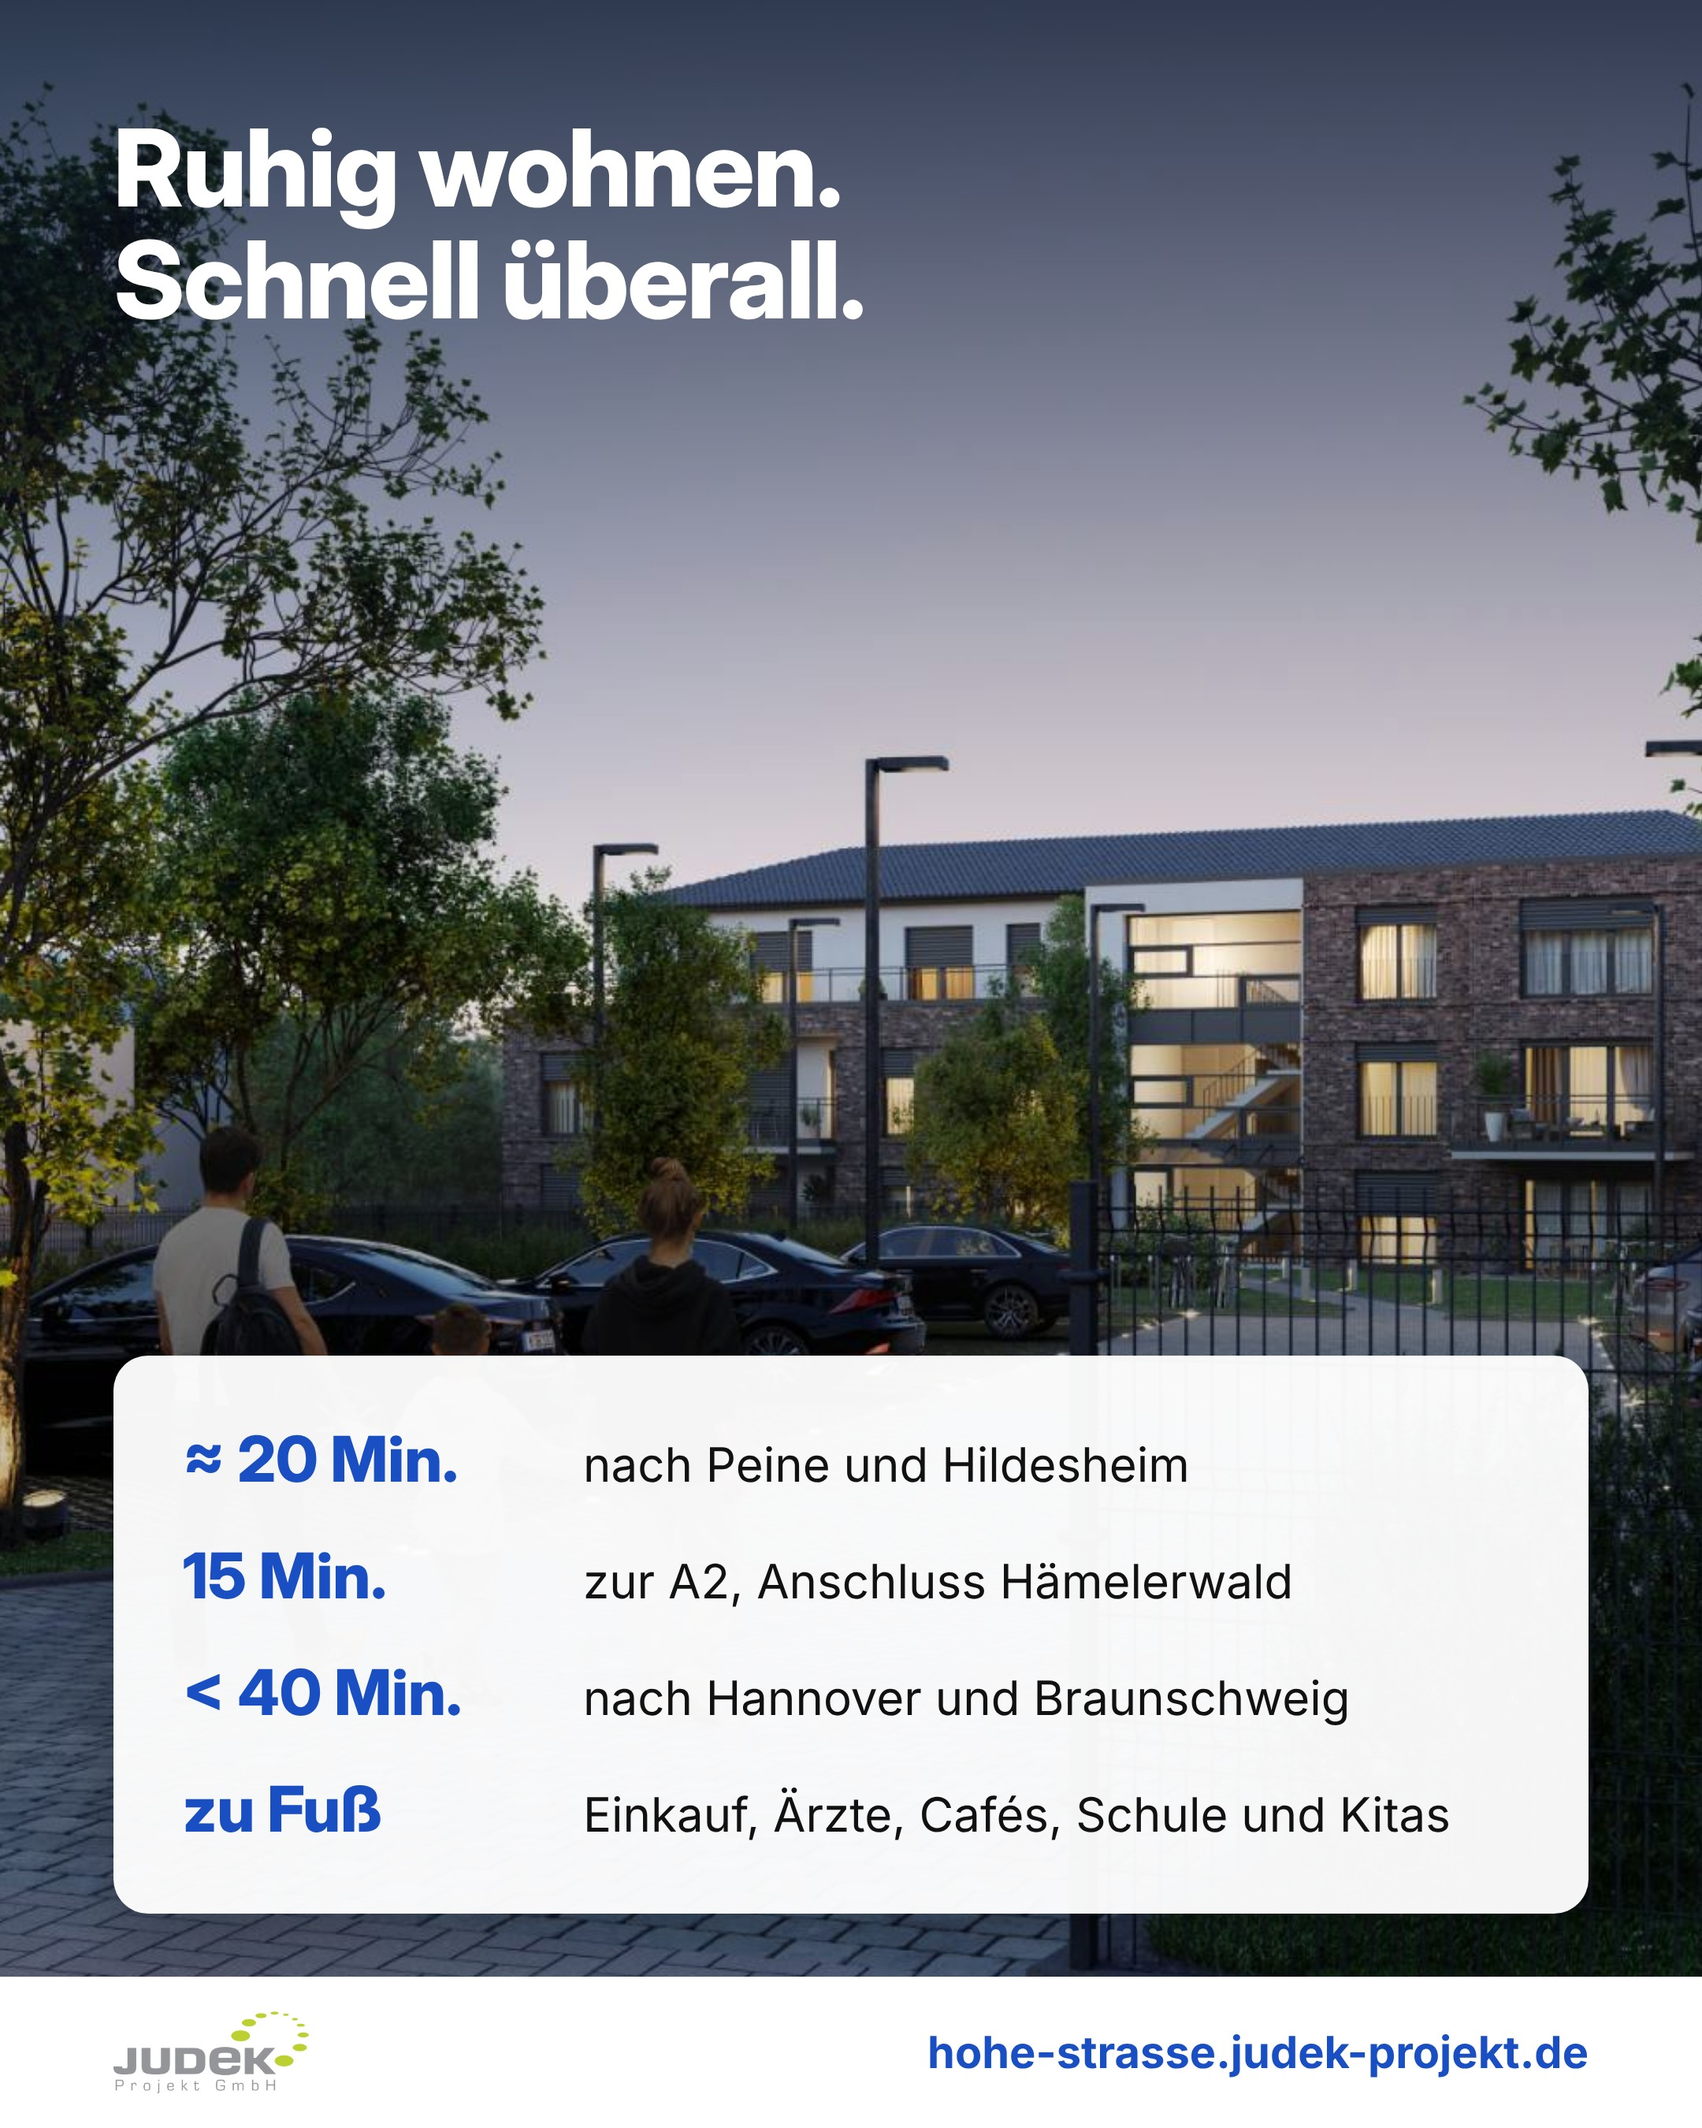
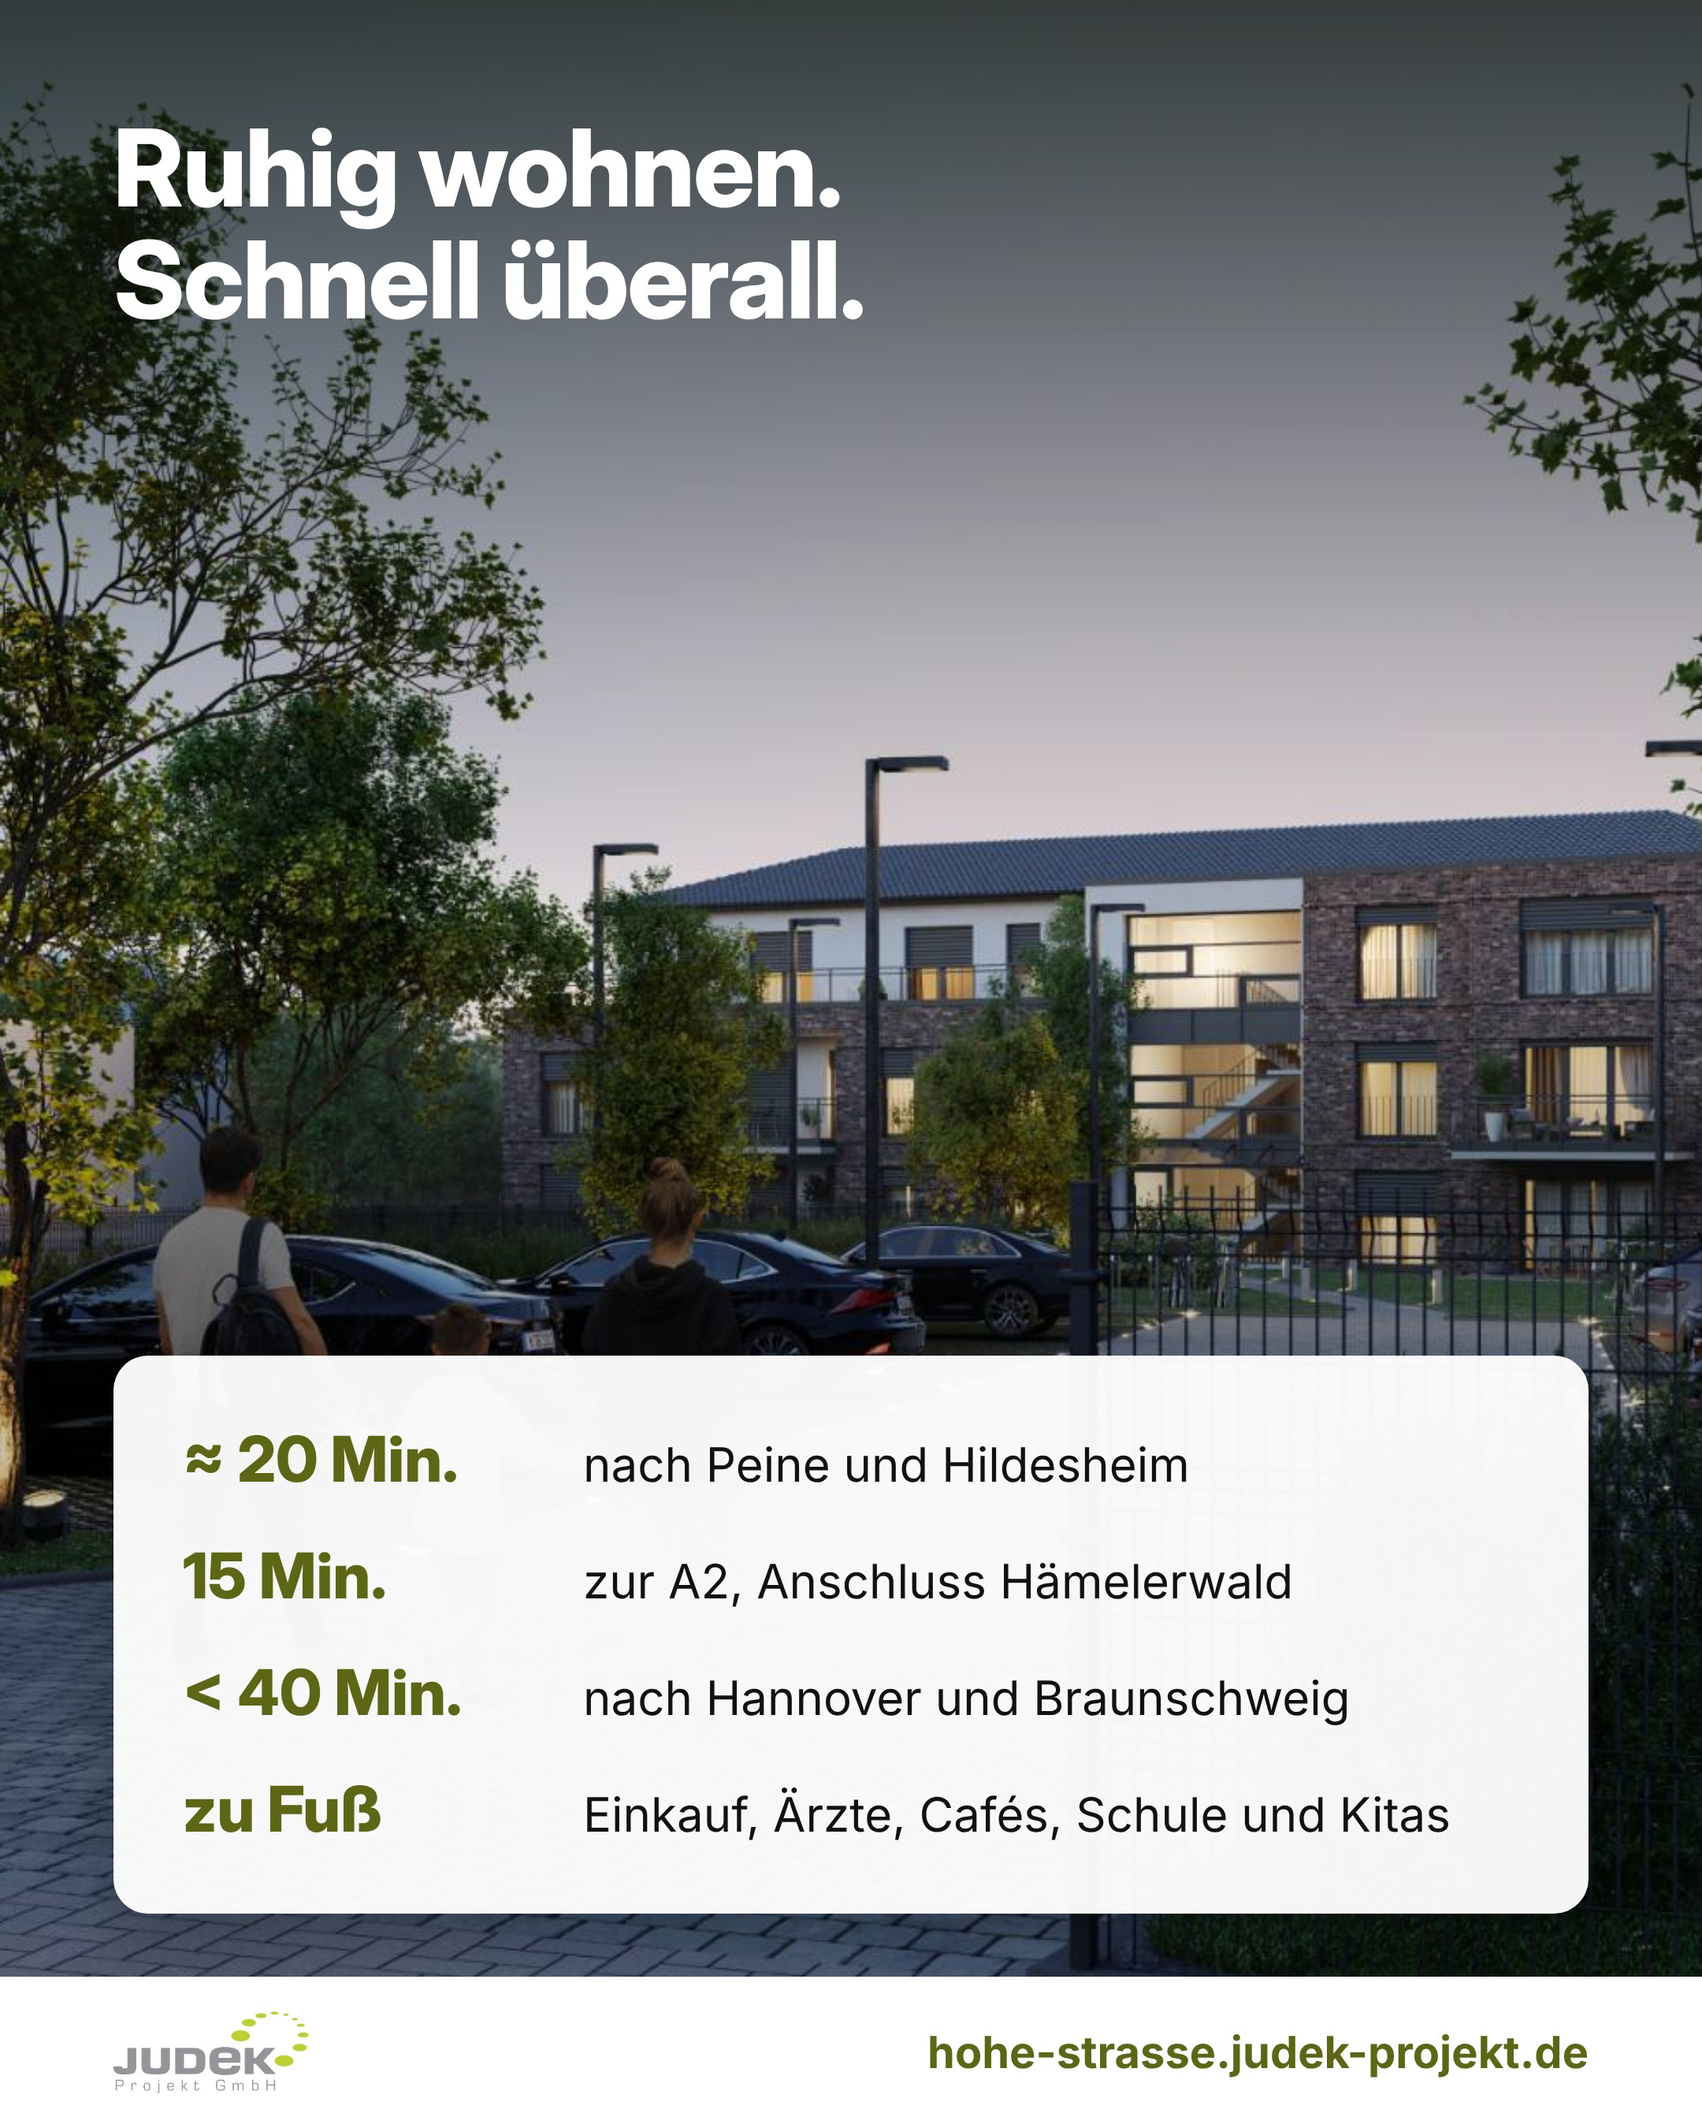
Hausgrün #BECE43 statt Blau auf Website, Exposé, Mails und Facebook-Bildern
Grün als Fläche (Knöpfe, Balken, Haken, Marken) mit dunkler Schrift darauf.
Für Text und Links auf Weiß reicht #BECE43 nicht (Kontrast 1,7:1), dafür
der dunklere Ton #5C6614 (6,2:1) als --cta-text. Im Dunkelmodus trägt das
Grün selbst.

Claude-Session: https://claude.ai/code/session_01A9HRSVsThF8dxmguCCzcwQ

Changed region(s): [[0.0931, 0.6533, 0.2792, 0.8089], [0.5583, 0.9333, 0.9306, 0.9956], [0.0931, 0.84, 0.2481, 0.8711]]

diff --git a/src/app/globals.css b/src/app/globals.css
@@ -19,14 +19,17 @@
   --input: 240 5.9% 90%;
   --primary: 240 5.9% 10%;
   --primary-foreground: 0 0% 98%;
-  --ring: 224 76% 42%;
+  --ring: 66 67% 24%;
   --radius: 0.5rem;
 
-  /* weißer Text auf CTA 8,01:1, CTA-Text auf weiß 8,01:1 — beides AAA */
-  --cta: 224 76% 42%;
-  --cta-foreground: 0 0% 100%;
-  --cta-hover: 224 76% 36%;
-  --cta-muted: 214 95% 93%;
+  /* Hausgrün #BECE43 (Judek-Logo). Hell, darum dunkle Schrift auf Grün (9,7:1).
+   * Für Text und Links auf Weiß reicht das Grün nicht (1,7:1) — dafür --cta-text,
+   * derselbe Ton dunkler (#5C6614, 6,2:1). */
+  --cta: 67 59% 54%;
+  --cta-foreground: 68 51% 8%;
+  --cta-hover: 67 59% 47%;
+  --cta-muted: 67 62% 90%;
+  --cta-text: 66 67% 24%;
   --success: 142 71% 29%;
   --success-muted: 141 79% 93%;
   --warning: 32 95% 30%;
@@ -50,11 +53,12 @@
     --input: 240 3.7% 20%;
     --primary: 0 0% 98%;
     --primary-foreground: 240 5.9% 10%;
-    --ring: 213 94% 68%;
-    --cta: 213 94% 68%;
-    --cta-foreground: 226 57% 10%;
-    --cta-hover: 213 94% 76%;
-    --cta-muted: 216 50% 16%;
+    --ring: 67 59% 54%;
+    --cta: 67 59% 54%;
+    --cta-foreground: 68 51% 8%;
+    --cta-hover: 67 59% 62%;
+    --cta-muted: 67 30% 16%;
+    --cta-text: 67 59% 54%;
     --success: 142 60% 45%;
     --success-muted: 143 40% 14%;
     --warning: 38 85% 55%;
@@ -79,7 +83,7 @@ h1 { font-size: clamp(2.5rem, 6.5vw, 5rem); letter-spacing: -0.045em; line-heigh
 h2 { font-size: clamp(1.75rem, 3.6vw, 2.75rem); letter-spacing: -0.035em; }
 h3 { font-size: 1.05rem; letter-spacing: -0.01em; }
 p { margin: 0 0 1em; }
-a { color: hsl(var(--cta)); text-decoration: none; }
+a { color: hsl(var(--cta-text)); text-decoration: none; }
 a:hover { text-decoration: underline; text-underline-offset: 3px; }
 /* Links mitten im Fließtext brauchen mehr als Farbe, um als Link erkennbar zu sein. */
 .text p a, .formular label a { text-decoration: underline; text-underline-offset: 3px; }
@@ -171,14 +175,14 @@ a:hover { text-decoration: underline; text-underline-offset: 3px; }
 .held h1 { max-width: 14ch; }
 .held-vorteile { list-style: none; padding: 0; margin: 20px 0 16px; display: flex; flex-wrap: wrap; gap: 8px 22px; font-weight: 600; font-size: clamp(1rem, 1.8vw, 1.25rem); }
 .held-vorteile li { display: flex; align-items: center; gap: 8px; }
-.held-vorteile li::before { content: "✓"; color: #4ade80; }
+.held-vorteile li::before { content: "✓"; color: #bece43; }
 .held-text { font-size: clamp(1.05rem, 1.6vw, 1.25rem); line-height: 1.5; color: rgba(255, 255, 255, 0.82); max-width: 600px; }
 .badge {
   display: inline-flex; align-items: center; gap: 8px; padding: 6px 12px; border-radius: 999px; margin-bottom: 24px;
   font: 500 0.8125rem var(--font-mono); color: #fff; background: rgba(9, 9, 11, 0.55); border: 1px solid rgba(255, 255, 255, 0.28);
   backdrop-filter: blur(8px); -webkit-backdrop-filter: blur(8px);
 }
-.punkt { width: 7px; height: 7px; border-radius: 50%; background: #4ade80; box-shadow: 0 0 0 3px rgba(74, 222, 128, 0.25); }
+.punkt { width: 7px; height: 7px; border-radius: 50%; background: #bece43; box-shadow: 0 0 0 3px rgba(190, 206, 67, 0.3); }
 
 .kennzahlen { border-bottom: 1px solid hsl(var(--border)); }
 .kennzahlen-raster { display: grid; grid-template-columns: repeat(4, 1fr); margin: 0 auto; }
@@ -205,7 +209,7 @@ a:hover { text-decoration: underline; text-underline-offset: 3px; }
 .dunkel-abschnitt {
   --background: 240 10% 3.9%; --foreground: 0 0% 98%; --muted: 240 3.7% 15.9%; --muted-foreground: 240 5% 64.9%;
   --border: 240 3.7% 18%; --card: 240 10% 6%;
-  --cta: 213 94% 68%; --cta-foreground: 226 57% 10%; --cta-hover: 213 94% 76%; --ring: 213 94% 68%;
+  --cta: 67 59% 54%; --cta-foreground: 68 51% 8%; --cta-hover: 67 59% 62%; --ring: 67 59% 54%; --cta-text: 67 59% 54%;
   background: hsl(var(--background)); color: hsl(var(--foreground));
 }
 
@@ -266,7 +270,7 @@ a:hover { text-decoration: underline; text-underline-offset: 3px; }
   display: flex; justify-content: space-between; align-items: center; font-weight: 600;
 }
 .preis .icon { color: hsl(var(--muted-foreground)); transition: transform 0.15s, color 0.15s; }
-.objekt-karte:hover .preis .icon { transform: translateX(3px); color: hsl(var(--cta)); }
+.objekt-karte:hover .preis .icon { transform: translateX(3px); color: hsl(var(--cta-text)); }
 
 /* Grundrisse sind farbige Pläne auf Weiß — auch im Dunkelmodus auf Weiß lassen. */
 .plan { position: relative; aspect-ratio: 4 / 3; background: #fff; margin: 12px 12px 14px; border-radius: var(--radius); }
@@ -328,7 +332,7 @@ a:hover { text-decoration: underline; text-underline-offset: 3px; }
 .lage-liste { list-style: none; margin: 0; padding: 0; border-top: 1px solid hsl(var(--border)); display: grid; grid-template-columns: 1fr 1fr; column-gap: 40px; }
 @media (max-width: 860px) { .lage-liste { grid-template-columns: 1fr; } }
 .lage-liste li { display: grid; grid-template-columns: 96px 1fr; gap: 16px; padding: 16px 0; border-bottom: 1px solid hsl(var(--border)); }
-.lage-liste .mono { color: hsl(var(--cta)); font-size: 0.875rem; padding-top: 1px; }
+.lage-liste .mono { color: hsl(var(--cta-text)); font-size: 0.875rem; padding-top: 1px; }
 .lage-adresse { display: inline-flex; align-items: center; gap: 6px; margin: 24px 0 0; font-size: 0.875rem; color: hsl(var(--muted-foreground)); }
 
 /* ── Kontakt ──────────────────────────────────────────────── */
@@ -424,7 +428,7 @@ label.haken input { margin-top: 3px; }
 .marke.lead-notartermin { background: hsl(var(--warning-muted)); color: hsl(var(--warning)); border-color: transparent; }
 .marke.lead-abgesagt { color: hsl(var(--muted-foreground)); }
 .marke.lead-neu { background: hsl(var(--destructive-muted)); color: hsl(var(--destructive)); border-color: transparent; }
-.marke.lead-kontaktiert, .marke.lead-besichtigung, .marke.lead-finanzierung { background: hsl(var(--cta-muted)); color: hsl(var(--cta)); border-color: transparent; }
+.marke.lead-kontaktiert, .marke.lead-besichtigung, .marke.lead-finanzierung { background: hsl(var(--cta-muted)); color: hsl(var(--cta-text)); border-color: transparent; }
 
 .eckdaten-tabelle {
   display: grid; grid-template-columns: repeat(auto-fill, minmax(150px, 1fr)); gap: 1px; margin: 24px 0;
@@ -567,7 +571,7 @@ label.haken input { margin-top: 3px; }
 .titelblatt h1 span { color: rgba(255, 255, 255, 0.75); }
 .titel-zeile { font-size: 12pt; margin: 0 0 4mm; color: rgba(255, 255, 255, 0.85); }
 .titel-vorteile { list-style: none; padding: 0; margin: 0; display: flex; flex-wrap: wrap; gap: 2mm 6mm; font-size: 12pt; font-weight: 600; }
-.titel-vorteile li::before { content: "✓ "; color: #4ade80; }
+.titel-vorteile li::before { content: "✓ "; color: #bece43; }
 .titel-fuss { display: flex; justify-content: space-between; align-items: flex-end; gap: 8mm; font-size: 9pt; color: rgba(255, 255, 255, 0.85); }
 .titel-judek { background: rgba(255, 255, 255, 0.92); padding: 3mm 4mm; border-radius: 2mm; }
 .titel-judek .judek-logo { width: 34mm; margin: 0; }
@@ -700,6 +704,6 @@ label.haken input { margin-top: 3px; }
 .termin-gebucht p { margin: 0 0 6px; }
 .termin-gebucht p:last-child { margin: 10px 0 0; }
 .termin-gebucht-wann { font-size: clamp(1.25rem, 2.6vw, 1.625rem); font-weight: 600; letter-spacing: -0.02em; }
-.termin-verschieben > summary { cursor: pointer; font-weight: 500; color: hsl(var(--cta)); padding: 6px 0; width: fit-content; }
+.termin-verschieben > summary { cursor: pointer; font-weight: 500; color: hsl(var(--cta-text)); padding: 6px 0; width: fit-content; }
 .termin-verschieben[open] > summary { margin-bottom: 8px; }
 .termin-verschieben .termin-wahl { margin-top: 16px; }

diff --git a/src/lib/mail-vorlagen.ts b/src/lib/mail-vorlagen.ts
@@ -19,7 +19,7 @@ export type Mail = { betreff: string; text: string; html: string };
 const esc = (s: string) =>
   s.replace(/&/g, "&amp;").replace(/</g, "&lt;").replace(/>/g, "&gt;").replace(/"/g, "&quot;");
 
-const FARBE = { text: "#18181b", leise: "#52525b", linie: "#e4e4e7", flaeche: "#f4f4f5", blau: "#1d4ed8" };
+const FARBE = { text: "#18181b", leise: "#52525b", linie: "#e4e4e7", flaeche: "#f4f4f5", gruen: "#5c6614" }; // Hausgrün #BECE43, für Links auf Weiß abgedunkelt (lesbar)
 const SCHRIFT = "-apple-system, BlinkMacSystemFont, 'Segoe UI', Helvetica, Arial, sans-serif";
 
 export function bestaetigung(a: Anfrage, objekt: Objekt | undefined, basis: URL): Mail {
@@ -123,7 +123,7 @@ export function bestaetigung(a: Anfrage, objekt: Objekt | undefined, basis: URL)
           </table>
         </td></tr>
         <tr><td style="padding:10px 20px 18px;">
-          <a href="${esc(url(`/objekte/${objekt.slug}`))}" style="font-size:14px;font-weight:600;color:${FARBE.blau};text-decoration:none;">Grundriss und Details ansehen →</a>
+          <a href="${esc(url(`/objekte/${objekt.slug}`))}" style="font-size:14px;font-weight:600;color:${FARBE.gruen};text-decoration:none;">Grundriss und Details ansehen →</a>
         </td></tr>
       </table>`)
     : "";
@@ -161,7 +161,7 @@ export function bestaetigung(a: Anfrage, objekt: Objekt | undefined, basis: URL)
     <div style="font-size:14px;color:${FARBE.leise};margin-top:2px;">Projektmanagement ${esc(projekt.name)} ${esc(projekt.ort)}</div>
     <div style="font-size:14px;margin-top:10px;line-height:1.7;">
       <a href="tel:${esc(p.telefon.replace(/\s/g, ""))}" style="color:${FARBE.text};text-decoration:none;">${esc(p.telefon)}</a><br>
-      <a href="mailto:${esc(p.email)}" style="color:${FARBE.blau};text-decoration:none;">${esc(p.email)}</a>
+      <a href="mailto:${esc(p.email)}" style="color:${FARBE.gruen};text-decoration:none;">${esc(p.email)}</a>
     </div>`, "padding-bottom:32px;")}
   <tr><td style="padding:20px 32px 24px;border-top:1px solid ${FARBE.linie};font-size:12px;line-height:1.6;color:${FARBE.leise};">
     ${pflicht.map(esc).join("<br>")}<br>
@@ -210,7 +210,7 @@ function rahmen(o: { betreff: string; vorschau: string; inhalt: string; basis: U
     <div style="font-size:14px;color:${FARBE.leise};margin-top:2px;">Projektmanagement ${esc(projekt.name)} ${esc(projekt.ort)}</div>
     <div style="font-size:14px;margin-top:10px;line-height:1.7;">
       <a href="tel:${esc(p.telefon.replace(/\s/g, ""))}" style="color:${FARBE.text};text-decoration:none;">${esc(p.telefon)}</a><br>
-      <a href="mailto:${esc(p.email)}" style="color:${FARBE.blau};text-decoration:none;">${esc(p.email)}</a>
+      <a href="mailto:${esc(p.email)}" style="color:${FARBE.gruen};text-decoration:none;">${esc(p.email)}</a>
     </div>
   </td></tr>`}
   <tr><td style="padding:20px 32px 24px;border-top:1px solid ${FARBE.linie};font-size:12px;line-height:1.6;color:${FARBE.leise};">
@@ -280,7 +280,7 @@ export function terminBestaetigung(l: Empfaenger, objekt: Objekt | undefined, be
     hAbsatz(`Guten Tag ${esc(l.name)},`) + hAbsatz(esc(s1)) +
     hKasten([["Wann", `<strong>${esc(wann)}</strong>`], ["Wo", ortHtml], ["Mit", esc(TERMIN.gastgeber)]]) +
     hAbsatz(esc(s2)) + hAbsatz(esc(s3)) + hAbsatz(esc(s4)) +
-    `<p style="margin:0 0 20px;"><a href="${esc(link)}" style="color:${FARBE.blau};font-weight:600;text-decoration:none;">Termin ändern →</a></p>`;
+    `<p style="margin:0 0 20px;"><a href="${esc(link)}" style="color:${FARBE.gruen};font-weight:600;text-decoration:none;">Termin ändern →</a></p>`;
   return { betreff, text, html: rahmen({ betreff, vorschau: `${wann}, ${TERMIN.ort.name}`, inhalt, basis }) };
 }
 
@@ -311,7 +311,7 @@ export function terminInfo(l: Empfaenger & { id: string }, objekt: Objekt | unde
     hAbsatz("Ein neuer Termin wurde vereinbart.") +
     hKasten(daten.map(([k, v]) => [k, k === "Wann" ? `<strong>${esc(v)}</strong>` : esc(v)])) +
     (l.nachricht ? hAbsatz(`<span style="color:${FARBE.leise};font-size:14px;">Nachricht aus der Anfrage</span><br>${esc(l.nachricht).replace(/\n/g, "<br>")}`) : "") +
-    hAbsatz(`<a href="${esc(lead)}" style="color:${FARBE.blau};font-weight:600;text-decoration:none;">Lead im Vertriebsbereich öffnen →</a>`) +
+    hAbsatz(`<a href="${esc(lead)}" style="color:${FARBE.gruen};font-weight:600;text-decoration:none;">Lead im Vertriebsbereich öffnen →</a>`) +
     hAbsatz(`<span style="color:${FARBE.leise};font-size:14px;">Die Kalenderdatei hängt an. Der Interessent hat eine Bestätigung mit demselben Termin bekommen.</span>`);
   return { betreff, text, html: rahmen({ betreff, vorschau: `${wann} · ${l.name}`, inhalt, basis, gruss: false }) };
 }
